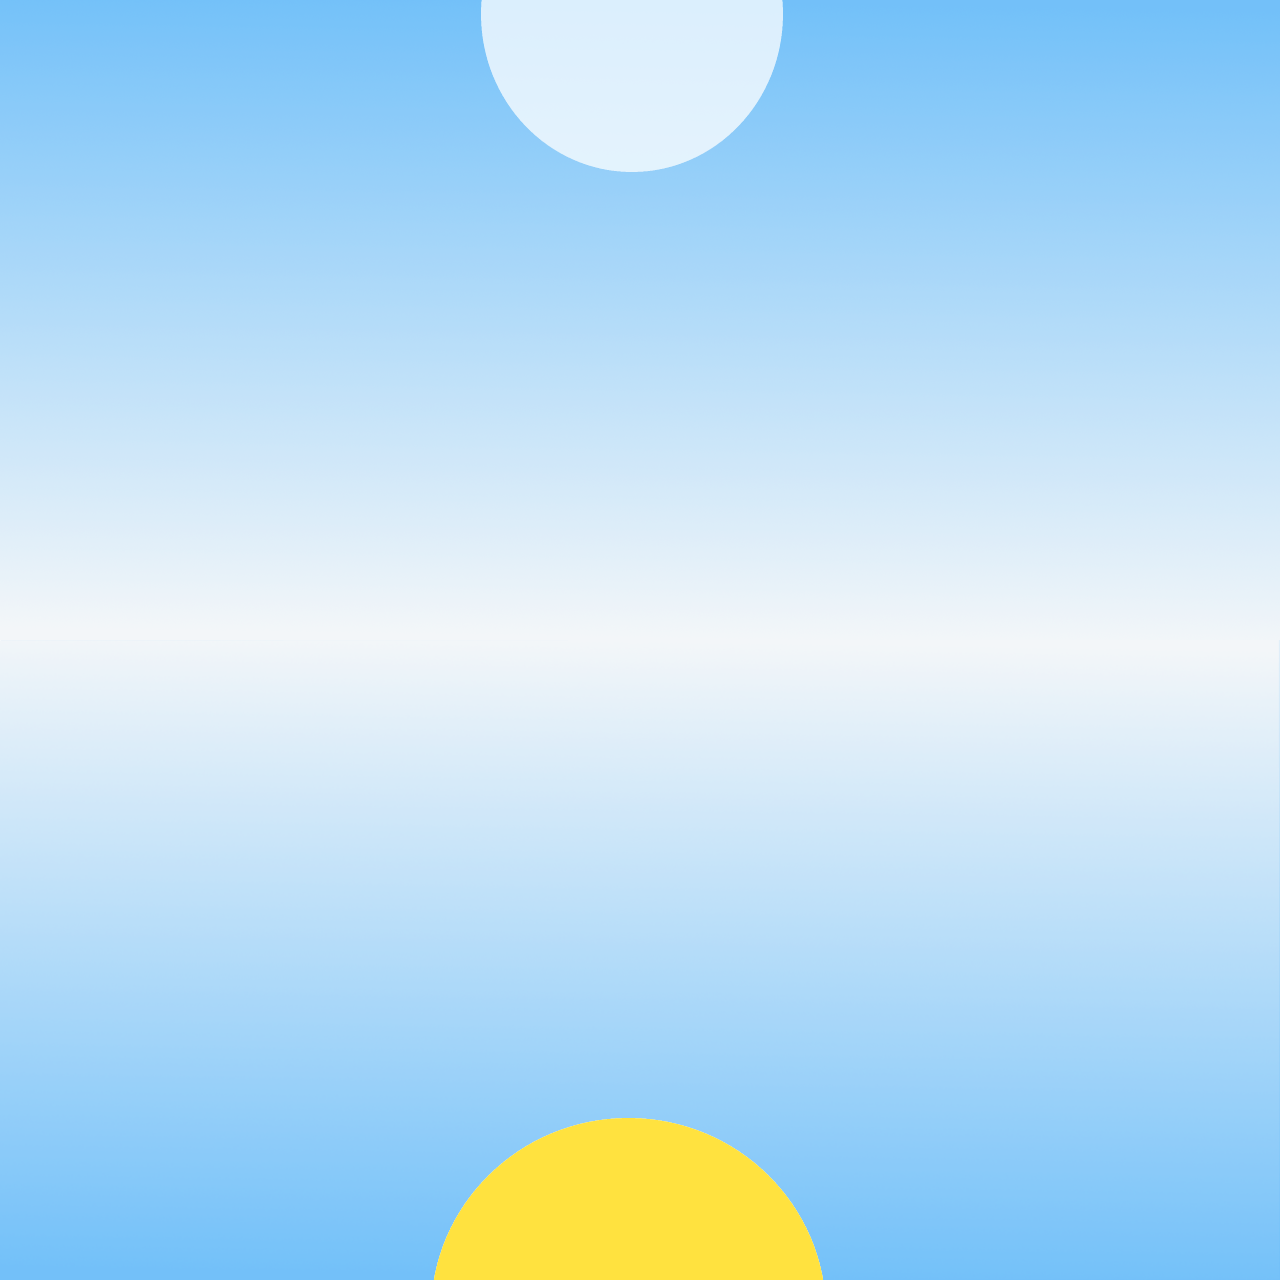
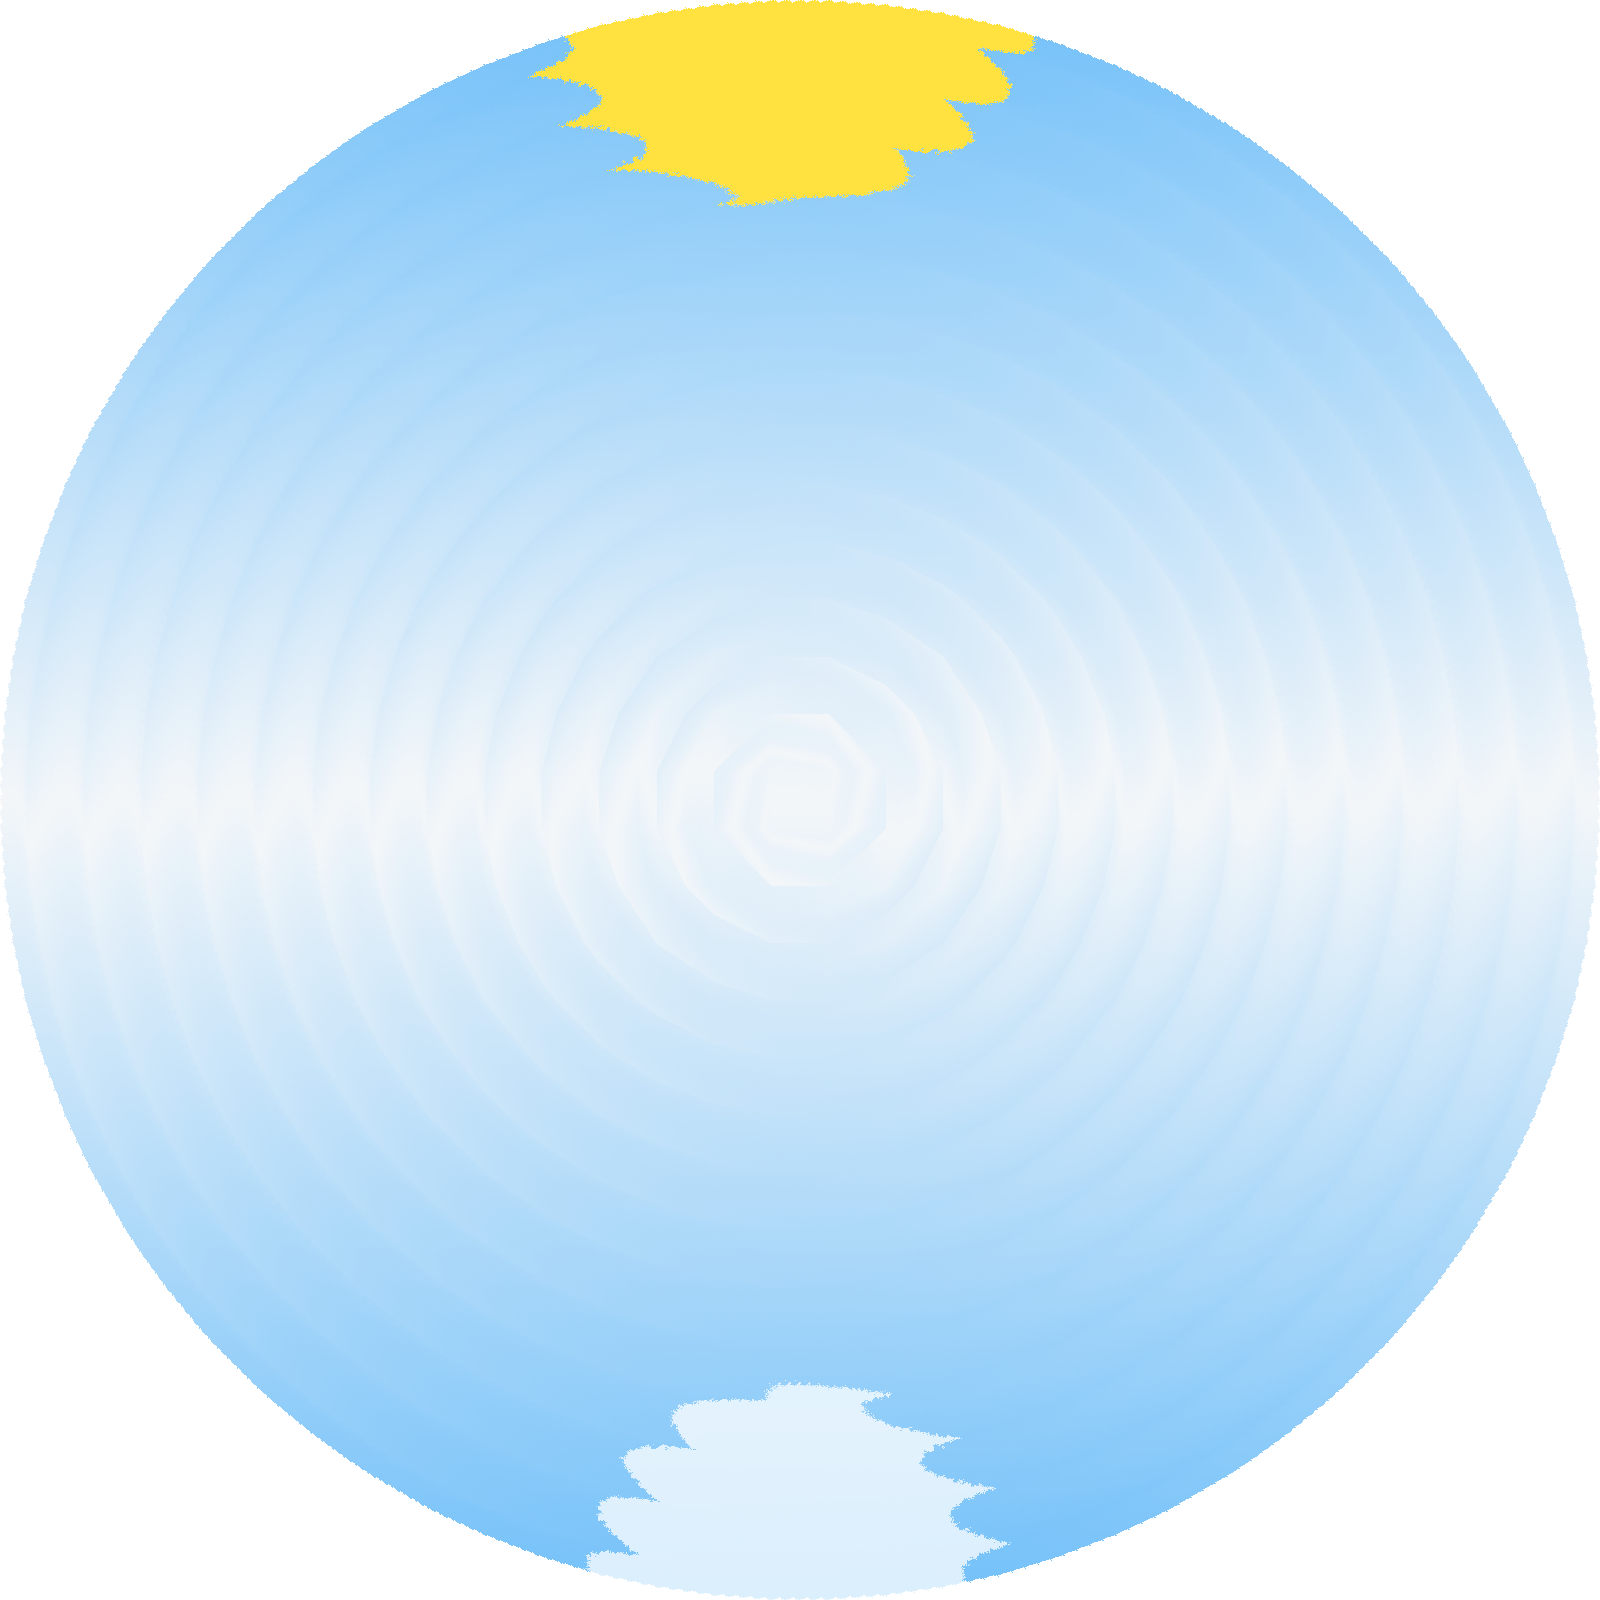
Work day and night

Changed region(s): [[0.0, 0.0, 1.0, 0.4375], [0.0, 0.5625, 1.0, 1.0]]

diff --git a/src/main/java/client/renderables/Background.java b/src/main/java/client/renderables/Background.java
@@ -7,7 +7,6 @@ import utils.FileUtils;
 import javax.imageio.ImageIO;
 import java.awt.*;
 import java.awt.image.BufferedImage;
-import java.awt.image.VolatileImage;
 import java.io.File;
 import java.io.IOException;
 import java.util.Random;
@@ -36,7 +35,8 @@ public class Background implements Entity, Drawable {
         }
         try {
             this.texture = ImageIO.read(this.getClass().getClassLoader().getResource("tex/background.png"));
-            this.texture1 = FileUtils.verticalFlip(FileUtils.scale1(ImageIO.read(this.getClass().getClassLoader().getResource("tex/sunmoon.png")),1.5));
+            this.texture1 = ImageIO.read(this.getClass().getClassLoader().getResource("tex/sunmoon.png"));
+
         } catch (IOException | NullPointerException e) {
             try {
                 this.texture = FileUtils.scale1(ImageIO.read(this.getClass().getClassLoader().getResource("tex/placeholder.png")), 4.0);
@@ -61,8 +61,11 @@ public class Background implements Entity, Drawable {
 
     @Override
     public void second() {
-        if (count == 10) {
+        if (count == 7) {
             texture1 = FileUtils.rotateClockwise(texture1);
+            count=0;
+        } else {
+            count++;
         }
         if (world.getTime() >= 600 && world.getTime() <= 1200) {
             c = c.brighter();
@@ -83,11 +86,10 @@ public class Background implements Entity, Drawable {
 
     @Override
     public void draw(Graphics g) {
-        texture1 = FileUtils.rotateClockwise(texture1);
         g.setColor(c);
         g.fillRect(0,0, Game.WIDTH, Game.HEIGHT);
         g.drawImage(texture, 0,0, Game.WIDTH, Game.HEIGHT, c, Game.instance);
-        g.drawImage(texture1, 0-texture1.getWidth()/4,0-texture1.getWidth()/4, c, Game.instance);
+        g.drawImage(texture1, 0-texture1.getWidth()/10,0-texture1.getWidth()/4, c, Game.instance);
         g.setColor(Color.WHITE);
         if ((world.getTime() >= 1800 && world.getTime() <= 2400) || (world.getTime() >= 0 && world.getTime() <= 700)) {
             for (Star s: stars) {

diff --git a/src/main/java/utils/FileUtils.java b/src/main/java/utils/FileUtils.java
@@ -66,8 +66,13 @@ public class FileUtils {
         BufferedImage dest = new BufferedImage(height, width, BufferedImage.TYPE_INT_ARGB);
 
         Graphics2D graphics2D = dest.createGraphics();
-        graphics2D.translate((height - width) / 2, (height - width) / 2);
-        graphics2D.rotate(Math.PI/240, height / 2, width / 2);
+        AffineTransform transform = new AffineTransform();
+        transform.setToTranslation((height - width) / 2,
+                (height - width) / 2);
+
+        transform.rotate(Math.toRadians(1), width / 2,
+                height / 2);
+        graphics2D.setTransform(transform);
         graphics2D.drawRenderedImage(src, null);
 
         return dest;
